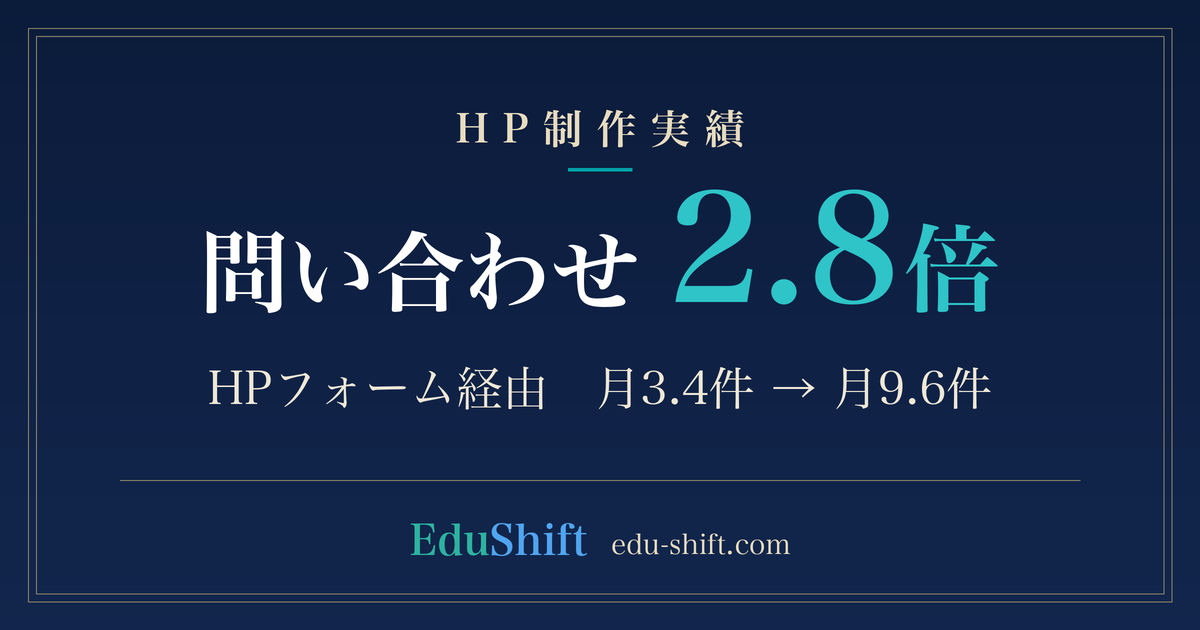
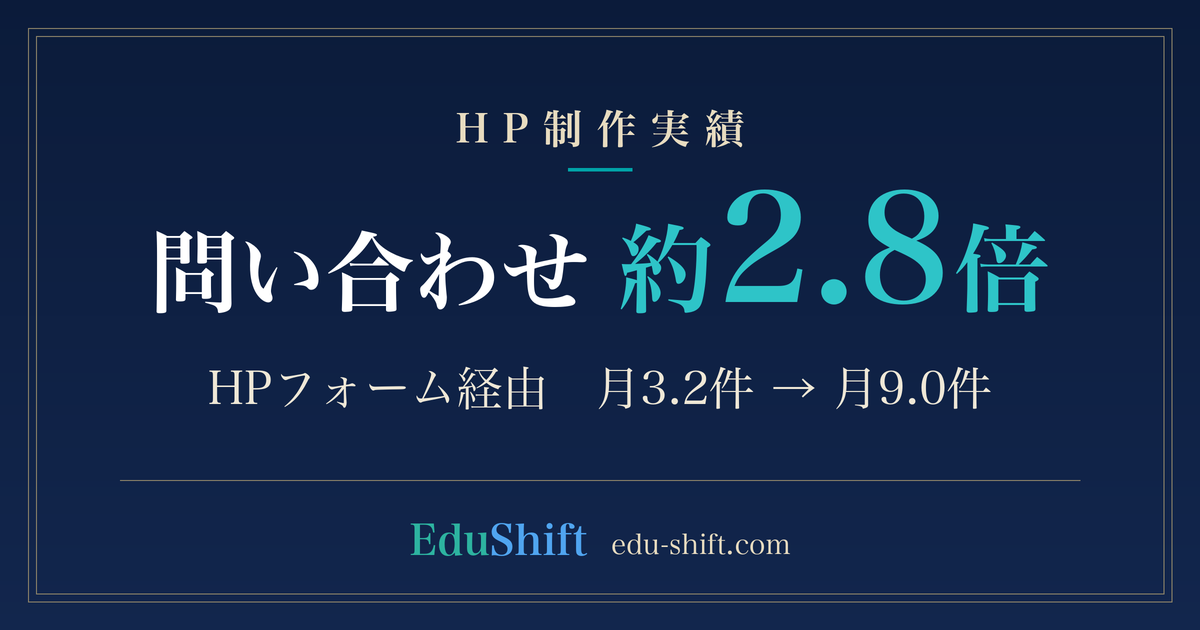
fix: 集計を完了月ベースに統一し数値を訂正（3.4→3.2件、9.6→9.0件、約2.8倍）、因果表現を抑制
Claude-Session: https://claude.ai/code/session_01TXUuqaYAgtxLXZdhq3Togr

Changed region(s): [[0.1233, 0.3016, 0.8633, 0.5127], [0.555, 0.573, 0.5858, 0.6333], [0.7708, 0.6032, 0.8017, 0.6333]]

diff --git a/src/data/caseStudies.ts b/src/data/caseStudies.ts
@@ -6,9 +6,9 @@
 
 export interface CaseMetric {
     label: string;      // 例: HPフォーム問い合わせ
-    before: string;     // 例: 月3.4件
-    after: string;      // 例: 月9.6件
-    multiplier: string; // 例: 2.8倍
+    before: string;     // 例: 月平均3.2件
+    after: string;      // 例: 月平均9.0件
+    multiplier: string; // 例: 約2.8倍
     note?: string;
 }
 
@@ -30,12 +30,12 @@ export const YS_CASE = {
     beforeCapturedAt: '2026年2月時点',
     heroCopy: '「きれいなHP」で終わらせない。問い合わせが来るHPへ。',
     metrics: [
-        { label: 'HPフォーム問い合わせ', before: '月平均3.4件', after: '月平均9.6件', multiplier: '2.8倍',
-          note: 'リニューアル前9ヶ月(2025/8〜2026/4)と後(2026/5〜7/12)の比較' },
-        { label: '学習相談（商談化）', before: '月2.0件', after: '月約6件', multiplier: '約3倍',
-          note: '事前アンケート回答数。2026/1〜4月と5月以降の比較' },
+        { label: 'HPフォーム問い合わせ', before: '月平均3.2件', after: '月平均9.0件', multiplier: '約2.8倍',
+          note: 'リニューアル前(2025/8〜2026/4)9ヶ月29件と、後の完了月(2026/5〜6)18件の月平均比較。2026年7月は12日時点で5件' },
+        { label: '学習相談（商談化）', before: '月2.0件', after: '月5.5件', multiplier: '約2.8倍',
+          note: '事前アンケート回答数。前=2026/1〜4(8件)、後=完了月2026/5〜6(11件)の月平均。7月は6日時点でさらに2件' },
         { label: 'HP/WEB検索経由の流入', before: '8件中2件', after: '13件中9件（69%）', multiplier: '主経路に',
-          note: '学習相談アンケート「知ったきっかけ」。X経由からHP経由へ逆転' },
+          note: '学習相談アンケート「知ったきっかけ」。前=2026/1〜4の回答8件、後=2026/5〜7/6の回答13件。X経由からHP経由へ逆転' },
     ] satisfies CaseMetric[],
     monthly: [
         { month: '2025-08', count: 1 }, { month: '2025-09', count: 5 },
@@ -49,9 +49,10 @@ export const YS_CASE = {
     ] satisfies MonthlyCount[],
     chartNotes: [
         `2026年7月は、${AS_OF}時点の件数です。`,
+        '月次比較のため、公開月である2026年4月まではリニューアル前として集計しています。',
         '前年（2025年）6月・7月のHPフォーム問い合わせは0件でした。',
     ],
-    disclaimer: `本事例は個別の実績であり、成果を保証するものではありません。問い合わせ件数はHPフォーム経由のメール通知をスレッド単位で集計し、営業目的のメールを除外しています（${AS_OF}時点）。前年同期（2025年6月・7月）のHPフォーム問い合わせは0件でした。`,
+    disclaimer: `本事例は個別の実績であり、成果を保証するものではありません。問い合わせ件数はHPフォーム経由のメール通知をスレッド単位で集計し、営業目的のメールを除外しています（${AS_OF}時点）。前年同期（2025年6月・7月）のHPフォーム問い合わせは0件でした。問い合わせ増加には時期や発信活動など他の要因が影響している可能性があり、リニューアル単独の効果を示すものではありません。`,
 } as const;
 
 /** ヒーロー・導線コピーの主役数字。「問い合わせ」文言とセットで使う */

diff --git a/src/pages/v2/CaseStudyYsKokugo.tsx b/src/pages/v2/CaseStudyYsKokugo.tsx
@@ -20,7 +20,7 @@ const ACTIONS = [
     {
         no: '03',
         title: 'AIEO対策',
-        body: 'llms.txt・JSON-LD構造化データ・FAQ schemaを実装。ChatGPTなどの生成AIに正しく読み取られ、回答に引用されるための構造を整えました。',
+        body: 'llms.txt・JSON-LD構造化データ・FAQ schemaを実装。ChatGPTなどの生成AIに読み取られやすくすることを目的に、サイトの構造を整備しました。',
     },
 ] as const;
 
@@ -38,7 +38,7 @@ export const CaseStudyBanner = () => (
                 <div className="s-case-banner-head">
                     <div className="s-case-banner-label">Case Study · 制作実績</div>
                     <h2>{YS_CASE.heroCopy}</h2>
-                    <p>EduShift代表自身の塾「{YS_CASE.siteName}」で実証したリニューアル成果です。</p>
+                    <p>EduShift代表自身の塾「{YS_CASE.siteName}」の、リニューアル前後の実測データです。</p>
                 </div>
                 <div className="s-case-banner-metrics">
                     {YS_CASE.metrics.map((m) => (
@@ -243,8 +243,8 @@ export const CaseStudyYsKokugo = () => {
                         <h2>これは、EduShift代表自身の塾での実証です。</h2>
                         <p>
                             借り物の導入事例ではありません。代表が自ら運営する「{YS_CASE.siteName}」で同じ設計を試し、
-                            問い合わせ件数という数字で効果を検証したうえで、塾・教室の皆さまに提供しています。
-                            自分の塾で成果が出なかったものは、お客様にも提案しません。
+                            問い合わせ件数という数字を公開して検証できる形にしたうえで、塾・教室の皆さまに提供しています。
+                            リニューアル後、問い合わせは実際に増加しました。その経過をこのページで公開しています。
                         </p>
                     </div>
                 </div>

diff --git a/docs/plans/2026-07-12-ys-case-study-design.md b/docs/plans/2026-07-12-ys-case-study-design.md
@@ -5,9 +5,11 @@
 
 ## 目的
 
-YS中学受験国語力研究室（kokugoryoku-up.com、吉井さん自身の塾）のHPリニューアル後に問い合わせが約3倍に増加した実績を、EduShiftのHP制作サービスの「実名で出せる唯一の常設エビデンス」として事例ページ化し、X・ブログ発信の着地先にする。
+YS中学受験国語力研究室（kokugoryoku-up.com、吉井さん自身の塾）のHPリニューアル後に問い合わせが約2.8倍に増加した実績を、EduShiftのHP制作サービスの「実名で出せる唯一の常設エビデンス」として事例ページ化し、X・ブログ発信の着地先にする。
 
 ## 確定エビデンス（2026-07-12 集計）
+
+> 訂正: 2026-07-12 クロスモデル点検により集計方法を完了月ベースに統一・訂正（前期29件=月平均約3.2件、後期は完了月5〜6月のみで月平均9.0件・約2.8倍）。
 
 ### データソースと集計方法
 - **問い合わせ件数**: Gmail検索 `from:[email redacted] subject:問い合わせ`（HPフォーム自動送信、CF7）。スレッド単位で月別カウント。営業メール2件（SEO業者・ハウスケア業者）は除外済み
@@ -29,12 +31,12 @@ HPフォーム問い合わせ（月別）:
 | 2026-01 | 4 | | 前年比較: 2025-05 | 約5 |
 | 2026-02 | 3 | | 2025-06 / 07 | **0 / 0** |
 
-- リニューアル前9ヶ月（2025-08〜2026-04）: 31件 = **月平均3.4件**
-- リニューアル後（2026-05〜07/12）: 23件 = **月平均約9.6件（2.8倍）**、6月単月11件（**3.2倍**）
+- リニューアル前9ヶ月（2025-08〜2026-04）: 29件（営業除外後）= **月平均約3.2件**
+- リニューアル後 完了月（2026-05〜06）: 18件 = **月平均9.0件（約2.8倍）**、6月単月11件。7月は12日時点5件（注記扱い、平均計算に含めない）
 - **前年同期（2025年6月・7月）は0件** → 季節要因説を排除できる
 
 学習相談（商談化）:
-- 2026年1〜4月: 8件（月2.0件）→ 5月以降: 13件（月約6件、**約3倍**）、6月単月7件
+- 2026年1〜4月: 8件（月2.0件）→ 完了月（2026-05〜06）: 11件（**月5.5件、約2.8倍**）、6月単月7件。7月は6日時点でさらに2件（注記扱い）
 
 流入経路の逆転（アンケート「知ったきっかけ」）:
 - 2026年1〜4月: X経由 6/8件、HP/WEB検索 2/8件
@@ -52,9 +54,9 @@ HPフォーム問い合わせ（月別）:
 - 新ルート `/works/ys-kokugo`（App.tsxに追加、StandaloneLayout配下）
 - ページコンポーネント `src/pages/v2/CaseStudyYsKokugo.tsx`（Scholarlyトーンで統一）
 - セクション構成:
-  1. ヒーロー: 「問い合わせ 月3.4件 → 9.6件」を主役の数字に
+  1. ヒーロー: 「問い合わせ 月平均3.2件 → 9.0件」を主役の数字に
   2. Before/After スクリーンショット比較
-  3. 3指標カード（問い合わせ2.8倍 / 学習相談3倍 / HP経由流入69%）＋ 月別推移グラフ
+  3. 3指標カード（問い合わせ約2.8倍 / 学習相談約2.8倍 / HP経由流入69%）＋ 月別推移グラフ
   4. 実施内容: デザイン刷新（書院・劇場化）+ モーション演出 + AIEO対策（llms.txt / JSON-LD / FAQ schema）
   5. 「これはEduShift代表自身の塾での実証です」の一次性の訴求
   6. CTA → HP制作サービスページ / 問い合わせ
@@ -72,7 +74,7 @@ HPフォーム問い合わせ（月別）:
 - YSは自社のため実名・実スクショ掲載OK（edushift_sample_policyの実クライアントNG制約の対象外）
 
 ## 発信計画（着地先=事例ページ）
-- ブログ記事1本: 「塾HPリニューアルで問い合わせが3倍になった話（実データ公開）」— blog-discussionスキルで作成、サムネはblog-thumbnail
+- ブログ記事1本: 「塾HPリニューアルで問い合わせが約2.8倍になった話（実データ公開）」— blog-discussionスキルで作成、サムネはblog-thumbnail
 - X投稿: @yossyk14 で実体験として、@YSTConsulting で事例として各1本以上。x-post-ideasスキル準拠
 - 営業メール・提案資料のテンプレに事例ページURLと3指標を差し込む（edushift-hp-builderの営業文面を更新）
 